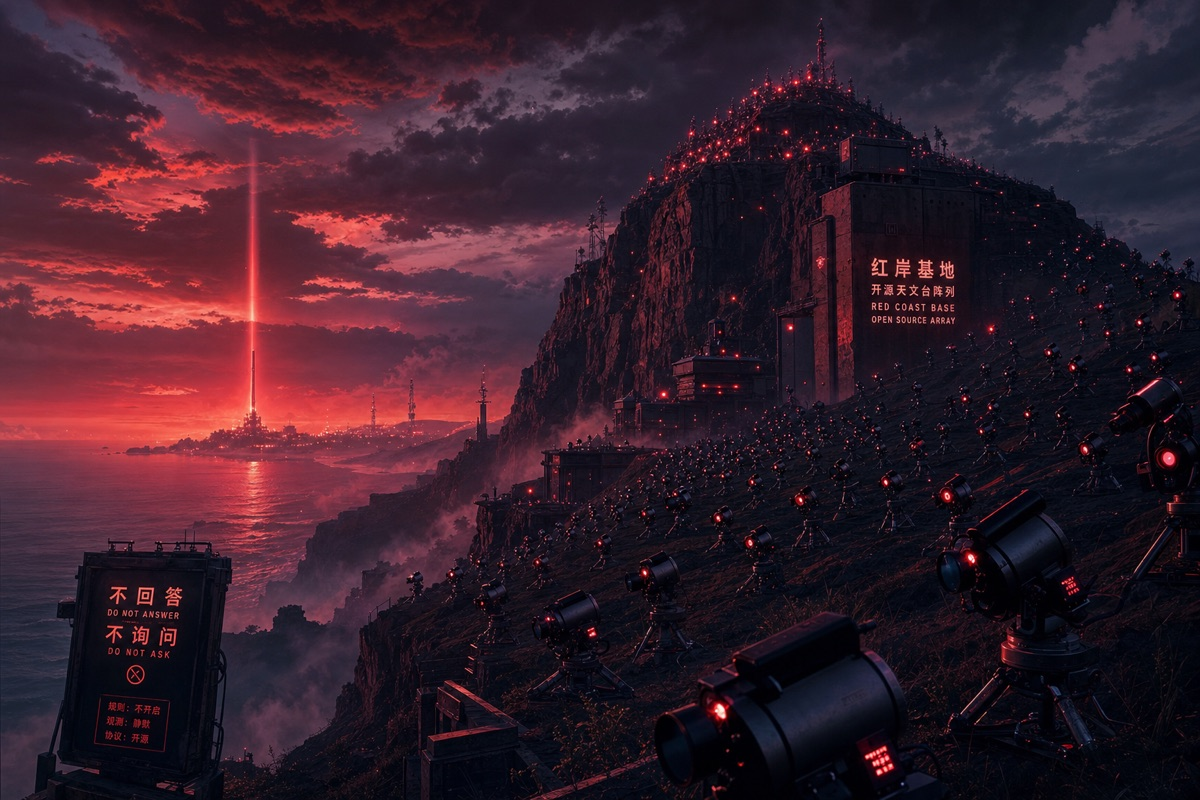
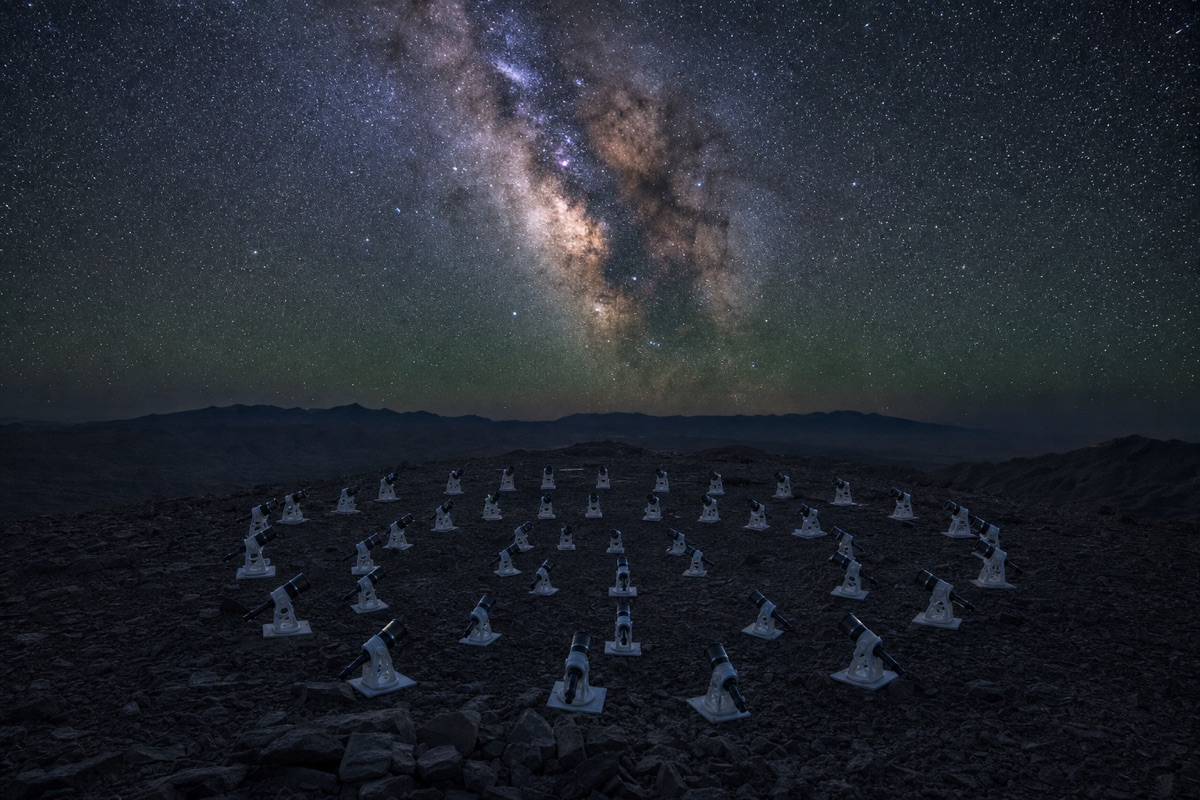
fix: regenerate unit-detail (correct sensor orientation) + radar-peak as Lenghu wilderness
- unit-detail: sensor now correctly behind the lens (light enters lens first),
  telescope pointing up. Previous render had the sensor flipped.
- radar-peak: was a dark 'evil' 三体 Red Coast scene; replaced with a serene
  Lenghu (青海冷湖) barren mountaintop, no human lights, only the Milky Way.
- Updated concept.radar card text (zh/en/fr) to describe the Lenghu site.

diff --git a/src/i18n/ui.js b/src/i18n/ui.js
@@ -43,8 +43,8 @@ export const ui = {
     'concept.detail.desc': 'IMX 传感器 + 3D 打印镜筒 + 红色阳极氧化铝环。',
     'concept.array': '阵列 · Array',
     'concept.array.desc': '32 镜螺旋阵列, 星轨之下协同指向同一天区。',
-    'concept.radar': '红岸基地 · 致敬',
-    'concept.radar.desc': '向《三体》红岸基地致敬 — 雷达峰上密布开源望远镜。"不要回答。"',
+    'concept.radar': '红岸 · 冷湖',
+    'concept.radar.desc': '青海冷湖大荒原的山顶 — 没有人类灯光, 只有银河星空下的 32 镜阵列。这是红岸三号理想的家。',
     'story.title': '从红岸到红岸三号',
     'open.title': '全部开源, 没有任何保留',
     'join.title': '三种方式参与',
@@ -86,8 +86,8 @@ export const ui = {
     'concept.detail.desc': 'IMX sensor + 3D-printed barrel + red anodized aluminum ring.',
     'concept.array': 'Array',
     'concept.array.desc': 'A 32-unit spiral array under star trails, all aimed at the same patch of sky.',
-    'concept.radar': 'Red Coast · homage',
-    'concept.radar.desc': 'A homage to the Red Coast Base from The Three-Body Problem — Radar Peak covered in open-source telescopes. "Do not answer."',
+    'concept.radar': 'Redbank · Lenghu',
+    'concept.radar.desc': 'A barren mountaintop in the Lenghu wilderness of Qinghai — no human lights, only the Milky Way above the 32-unit array. The ideal home for Redbank III.',
     'story.title': 'From Redbank to Redbank III',
     'open.title': 'Fully open source, nothing held back',
     'join.title': 'Three ways to join',
@@ -129,8 +129,8 @@ export const ui = {
     'concept.detail.desc': 'Capteur IMX + barillet imprimé en 3D + anneau en aluminium anodisé rouge.',
     'concept.array': 'Réseau',
     'concept.array.desc': 'Un réseau spiral de 32 unités sous les traînées d\'étoiles, toutes pointées vers la même région du ciel.',
-    'concept.radar': 'Côte Rouge · hommage',
-    'concept.radar.desc': 'Hommage à la base Côte Rouge du Problème à trois corps — le Pic Radar couvert de télescopes open source. « Ne répondez pas. »',
+    'concept.radar': 'Redbank · Lenghu',
+    'concept.radar.desc': 'Un sommet aride dans le désert de Lenghu, Qinghai — aucune lumière humaine, seulement la Voie lactée au-dessus du réseau de 32 unités. La maison idéale de Redbank III.',
     'story.title': 'De Redbank à Redbank III',
     'open.title': 'Entièrement open source, rien de caché',
     'join.title': 'Trois façons de participer',
